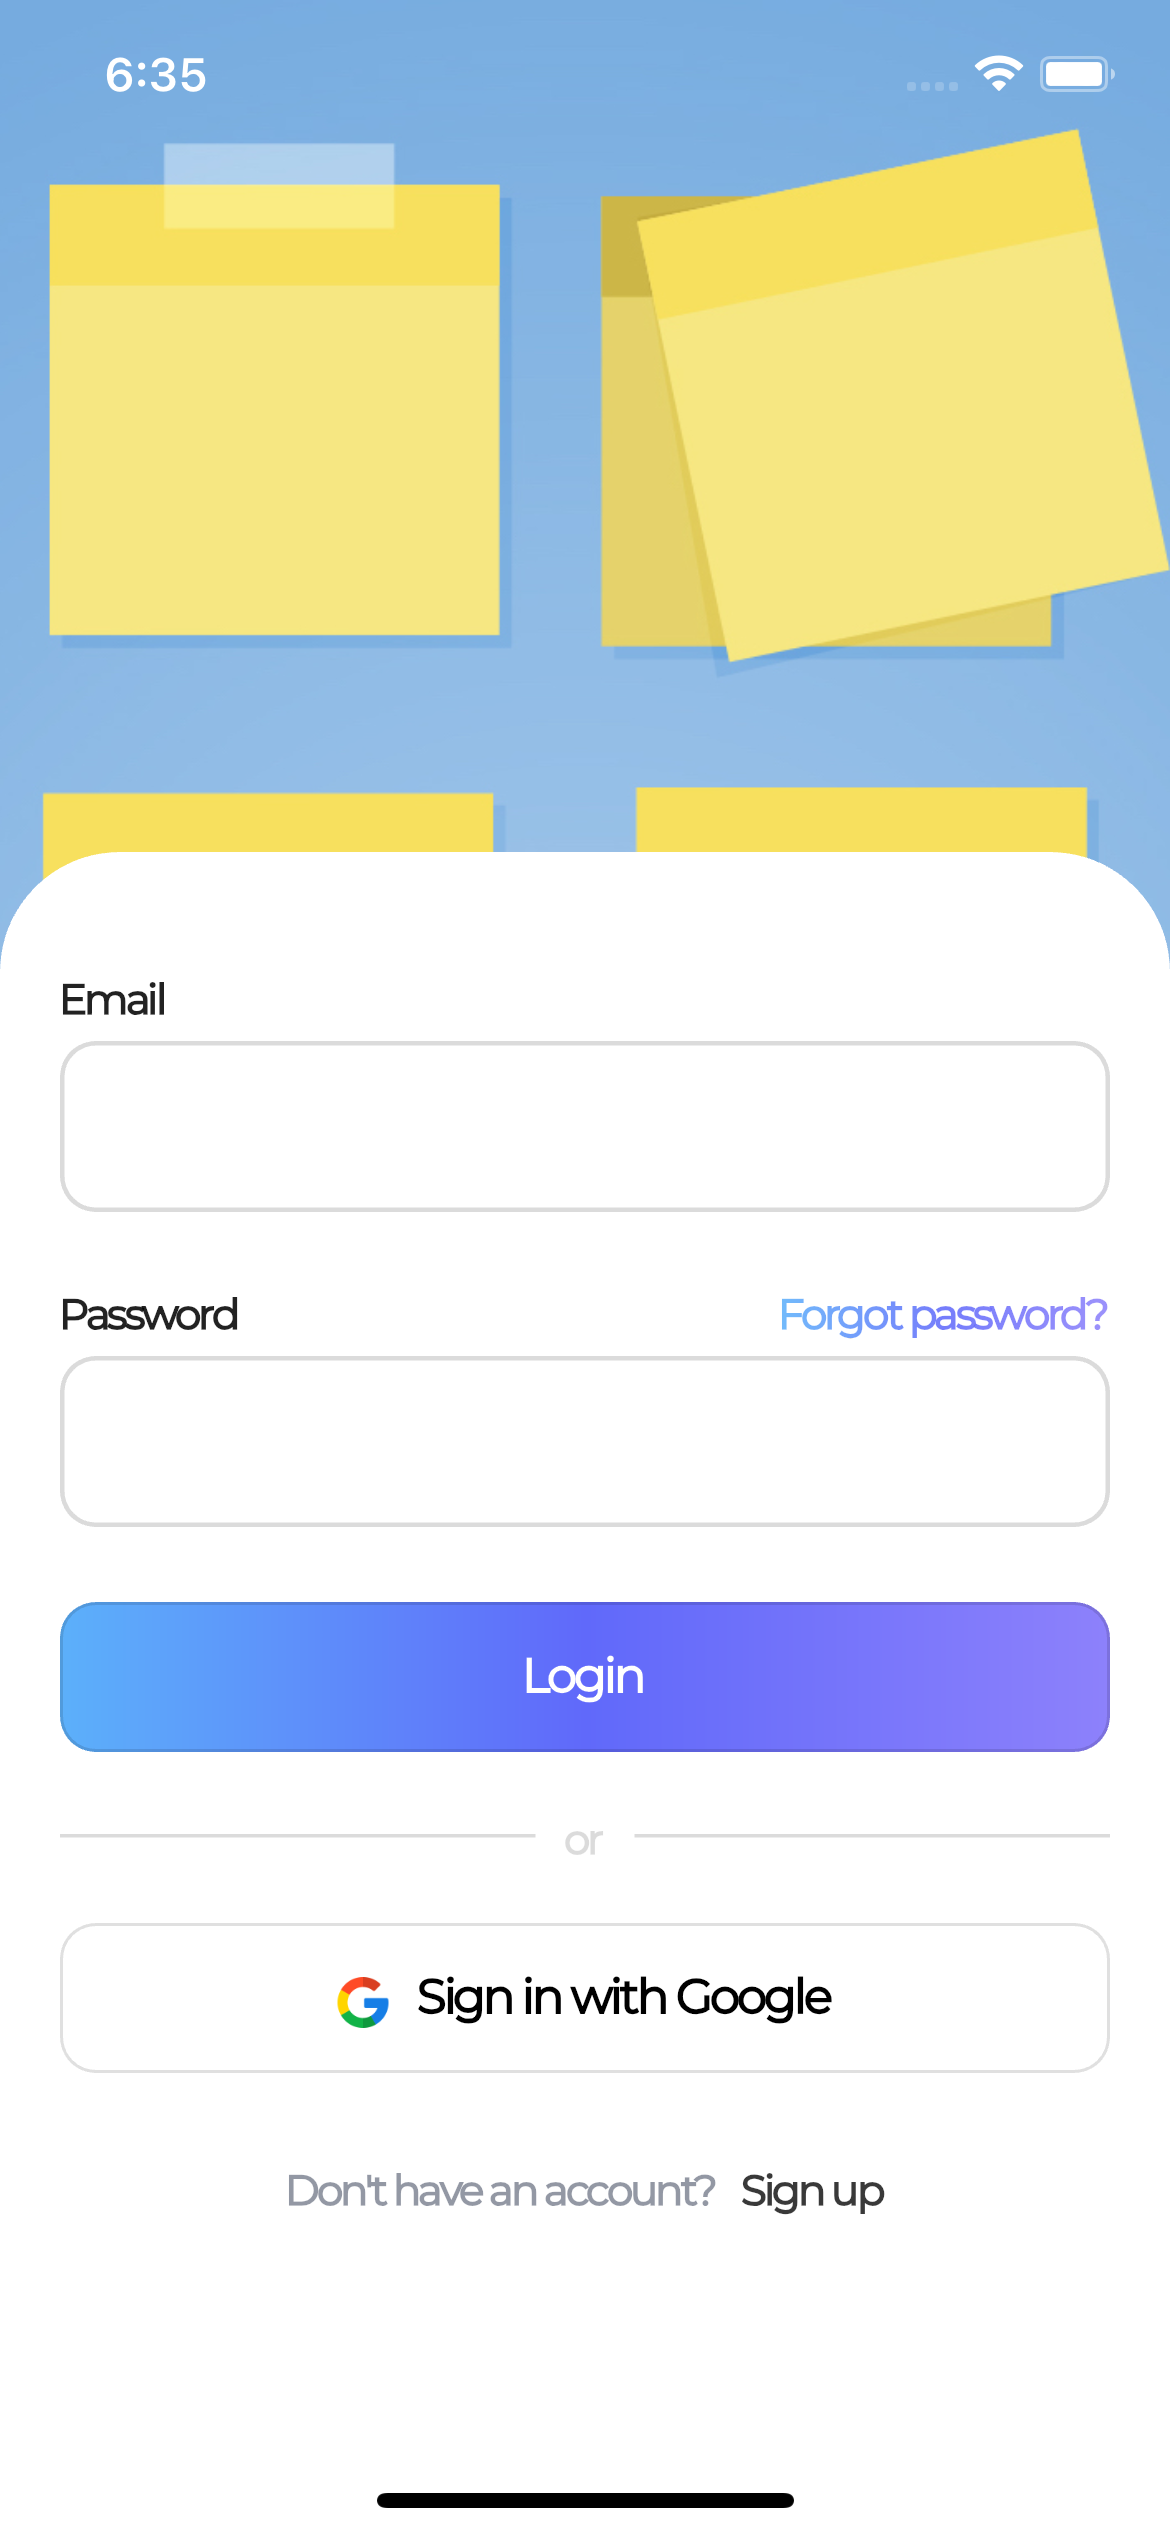
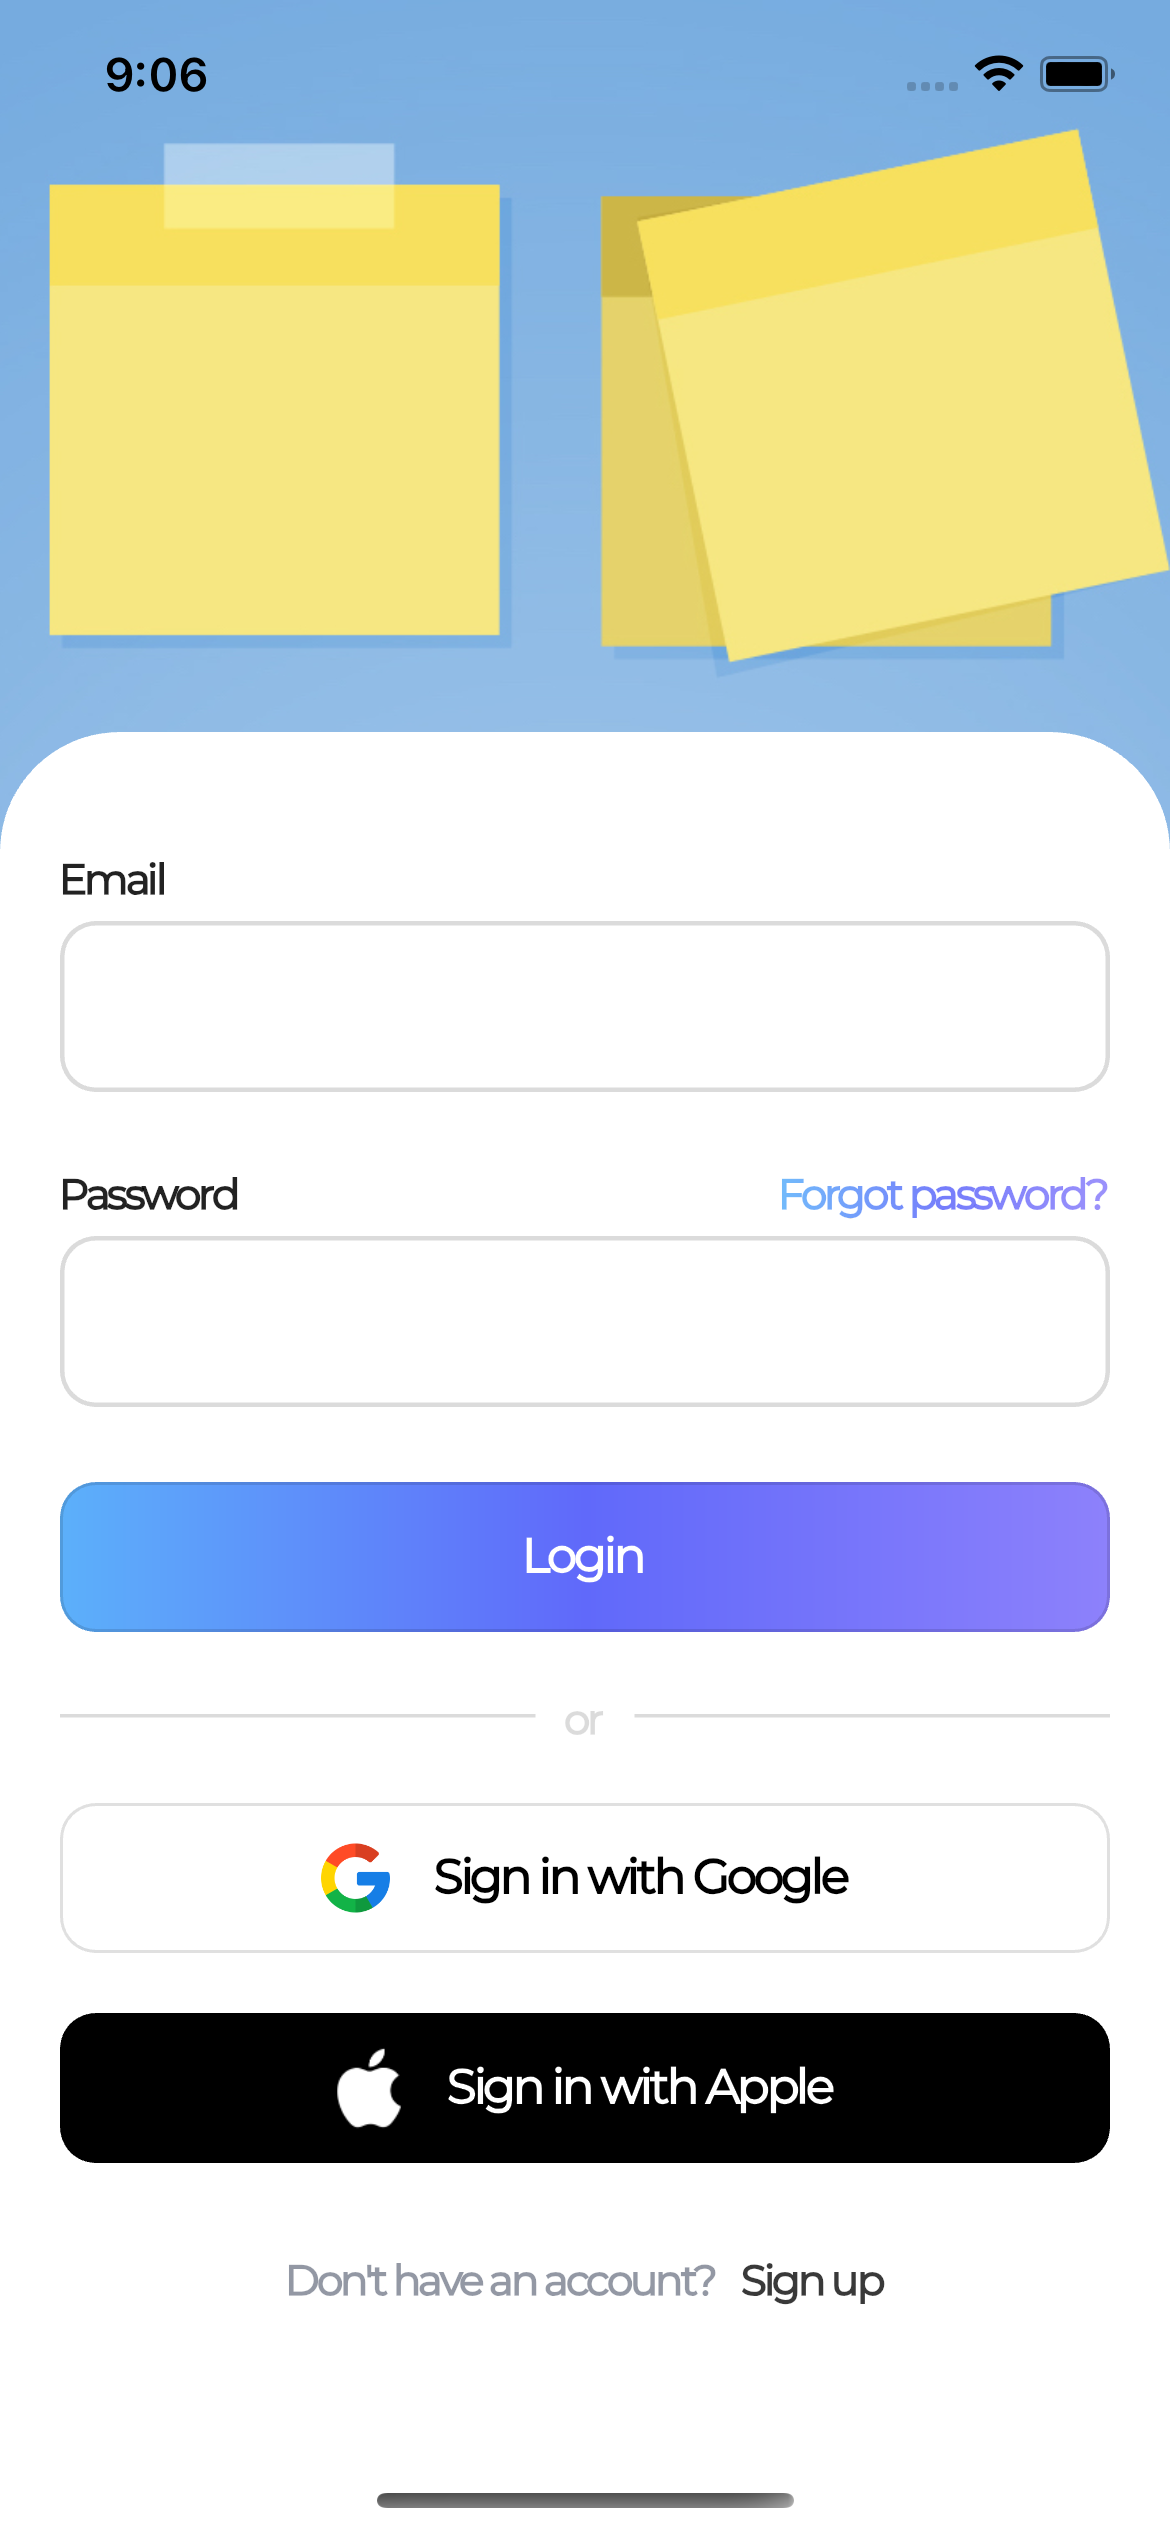
Readme updated

diff --git a/README.md b/README.md
@@ -20,41 +20,8 @@ Welcome to **ListZen** app: Your Ultimate Checklist Companion!
 
 ***Secure Sign-In***: Sign in to access your checklists securely, ensuring your data is protected.
 
-<img src="/assets/sign_in.png" width="150">
+<img src="/assets/sign_in.png" width="150"> <img src="/assets/sign_up.png" width="150">
 
 ## Platforms Supported
 
 - **iOS**: Compatible with iOS devices running iOS 11.0 and above.
-
-## Installation
-
-**Clone the repository**
-```
-git clone https://github.com/juliab/listzen.git
-```
-**Navigate to the app directory**
-```
-cd listzen
-```
-**Install dependencies**
-```
-flutter pub get
-```
-**Run the app on an emulator**
-```
-flutter emulators
-flutter emulators --launch <emulator_id>
-flutter run
-```
-
-Replace *<emulator_id>* with the ID of the emulator you want to use (e.g., flutter emulators --launch Pixel_4).
-
-**Run the app on a physical device**
-
-To run the app on a physical device, make sure the device is connected via USB and has developer mode enabled. Then, use:
-```
-flutter devices
-flutter run -d <device_id>
-```
-
-Replace *<device_id>* with the ID of the connected device.
